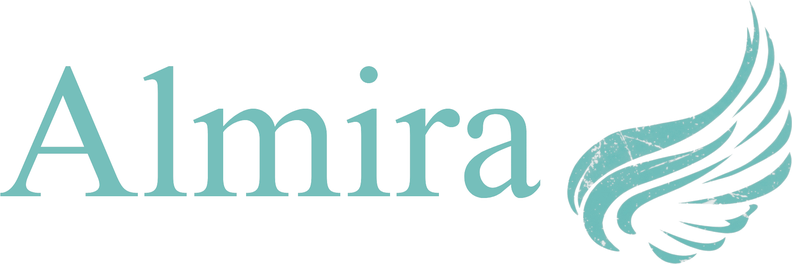
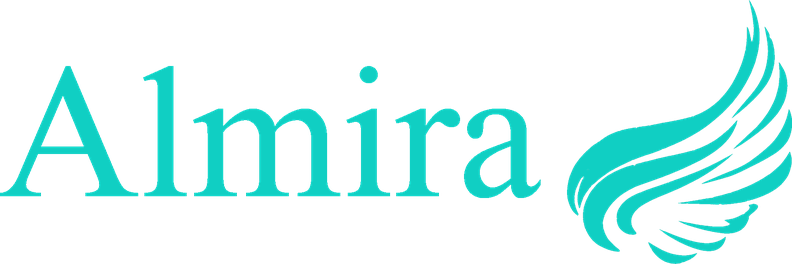
ロゴをベタ塗りの鮮やかなティール(#10CFC3)に変更

Changed region(s): [[0.0, 0.0, 1.0, 1.0], [0.4545, 0.2424, 0.4848, 0.3333]]

diff --git a/index.html b/index.html
@@ -36,7 +36,7 @@
 <main>
   <section class="hero">
     <div class="container">
-      <img src="almira-lockup.png?v=2" alt="Almira" class="hero-logo" width="264" height="88">
+      <img src="almira-lockup.png?v=3" alt="Almira" class="hero-logo" width="264" height="88">
       <h1 class="hero-title">医療の目を、<br>全ての家庭に。</h1>
       <p class="hero-lead">アルミラ株式会社は、乳幼児向けバイタルモニタリングサービスの開発を通じて、<span class="nowrap">生まれたその日から、</span>どの家庭にも等しく医療の目が届く社会をつくります。</p>
     </div>
